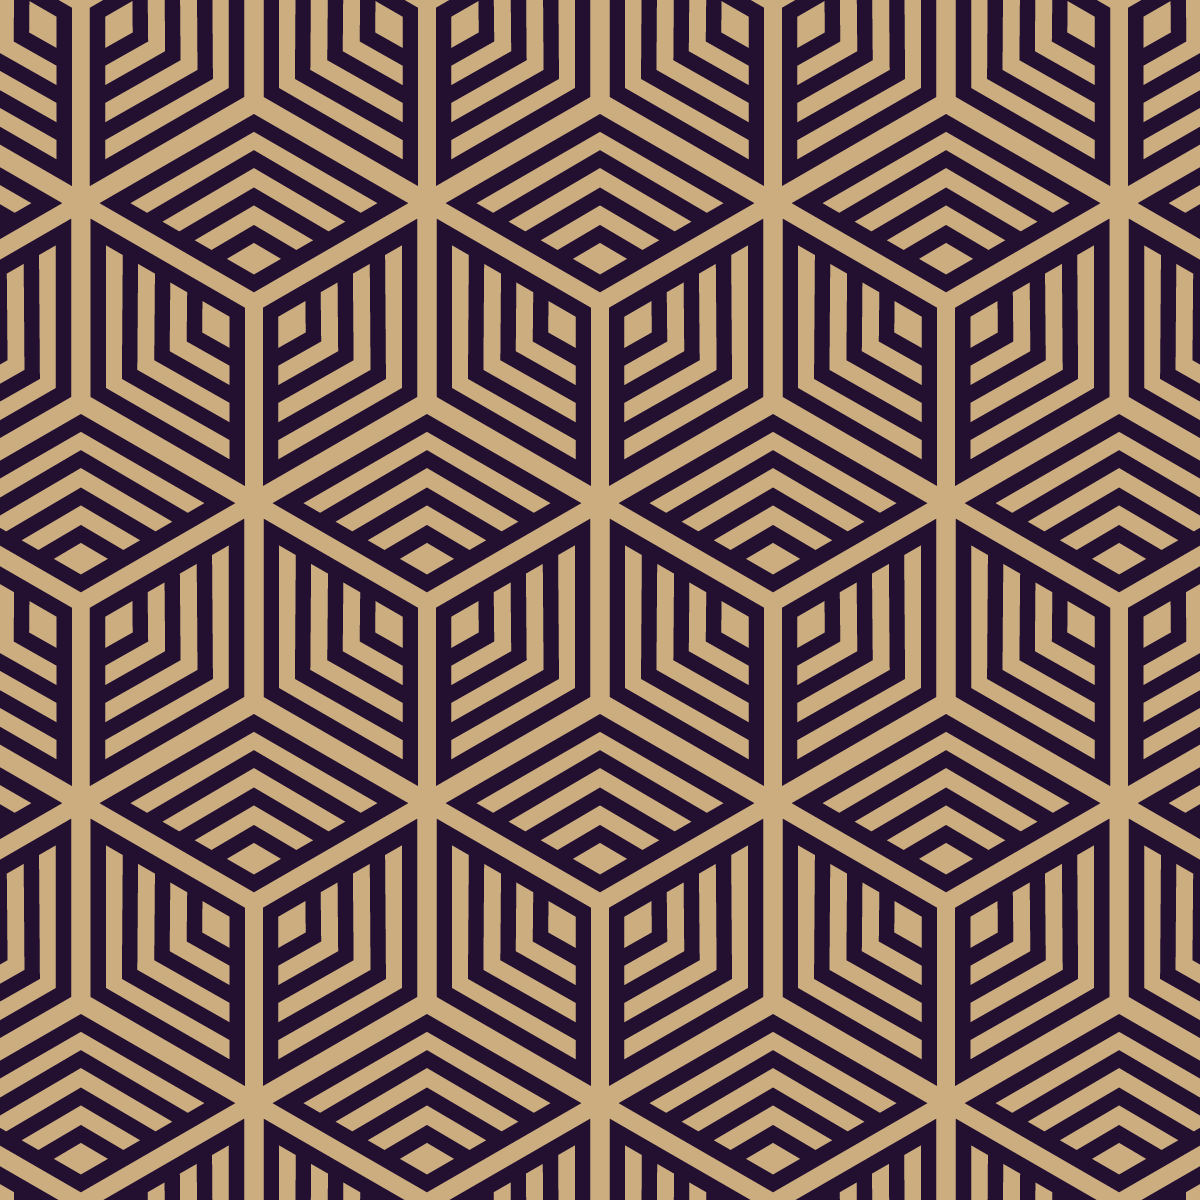
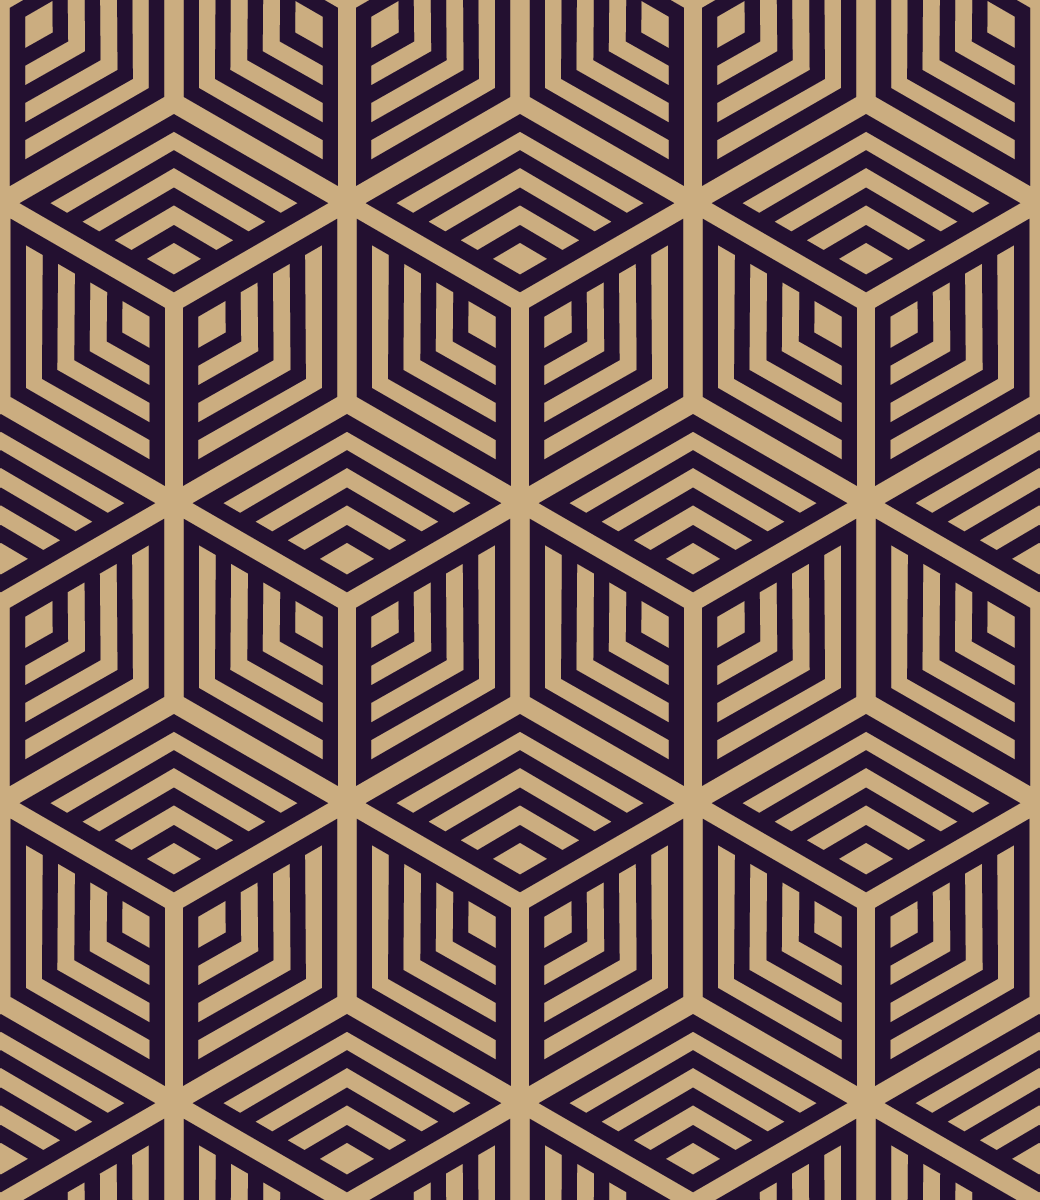
Changed Background Image and resized to repeat.

diff --git a/index.html b/index.html
@@ -18,7 +18,7 @@
         body {
             background-image: url(HexPatternBackground.png);
             background-repeat: repeat; /* Repeat the image */
-            background-size: 1000px 1000px;
+            background-size: 1040px 1200px;
         }
 
         /* Basic styling for the tab bar */
